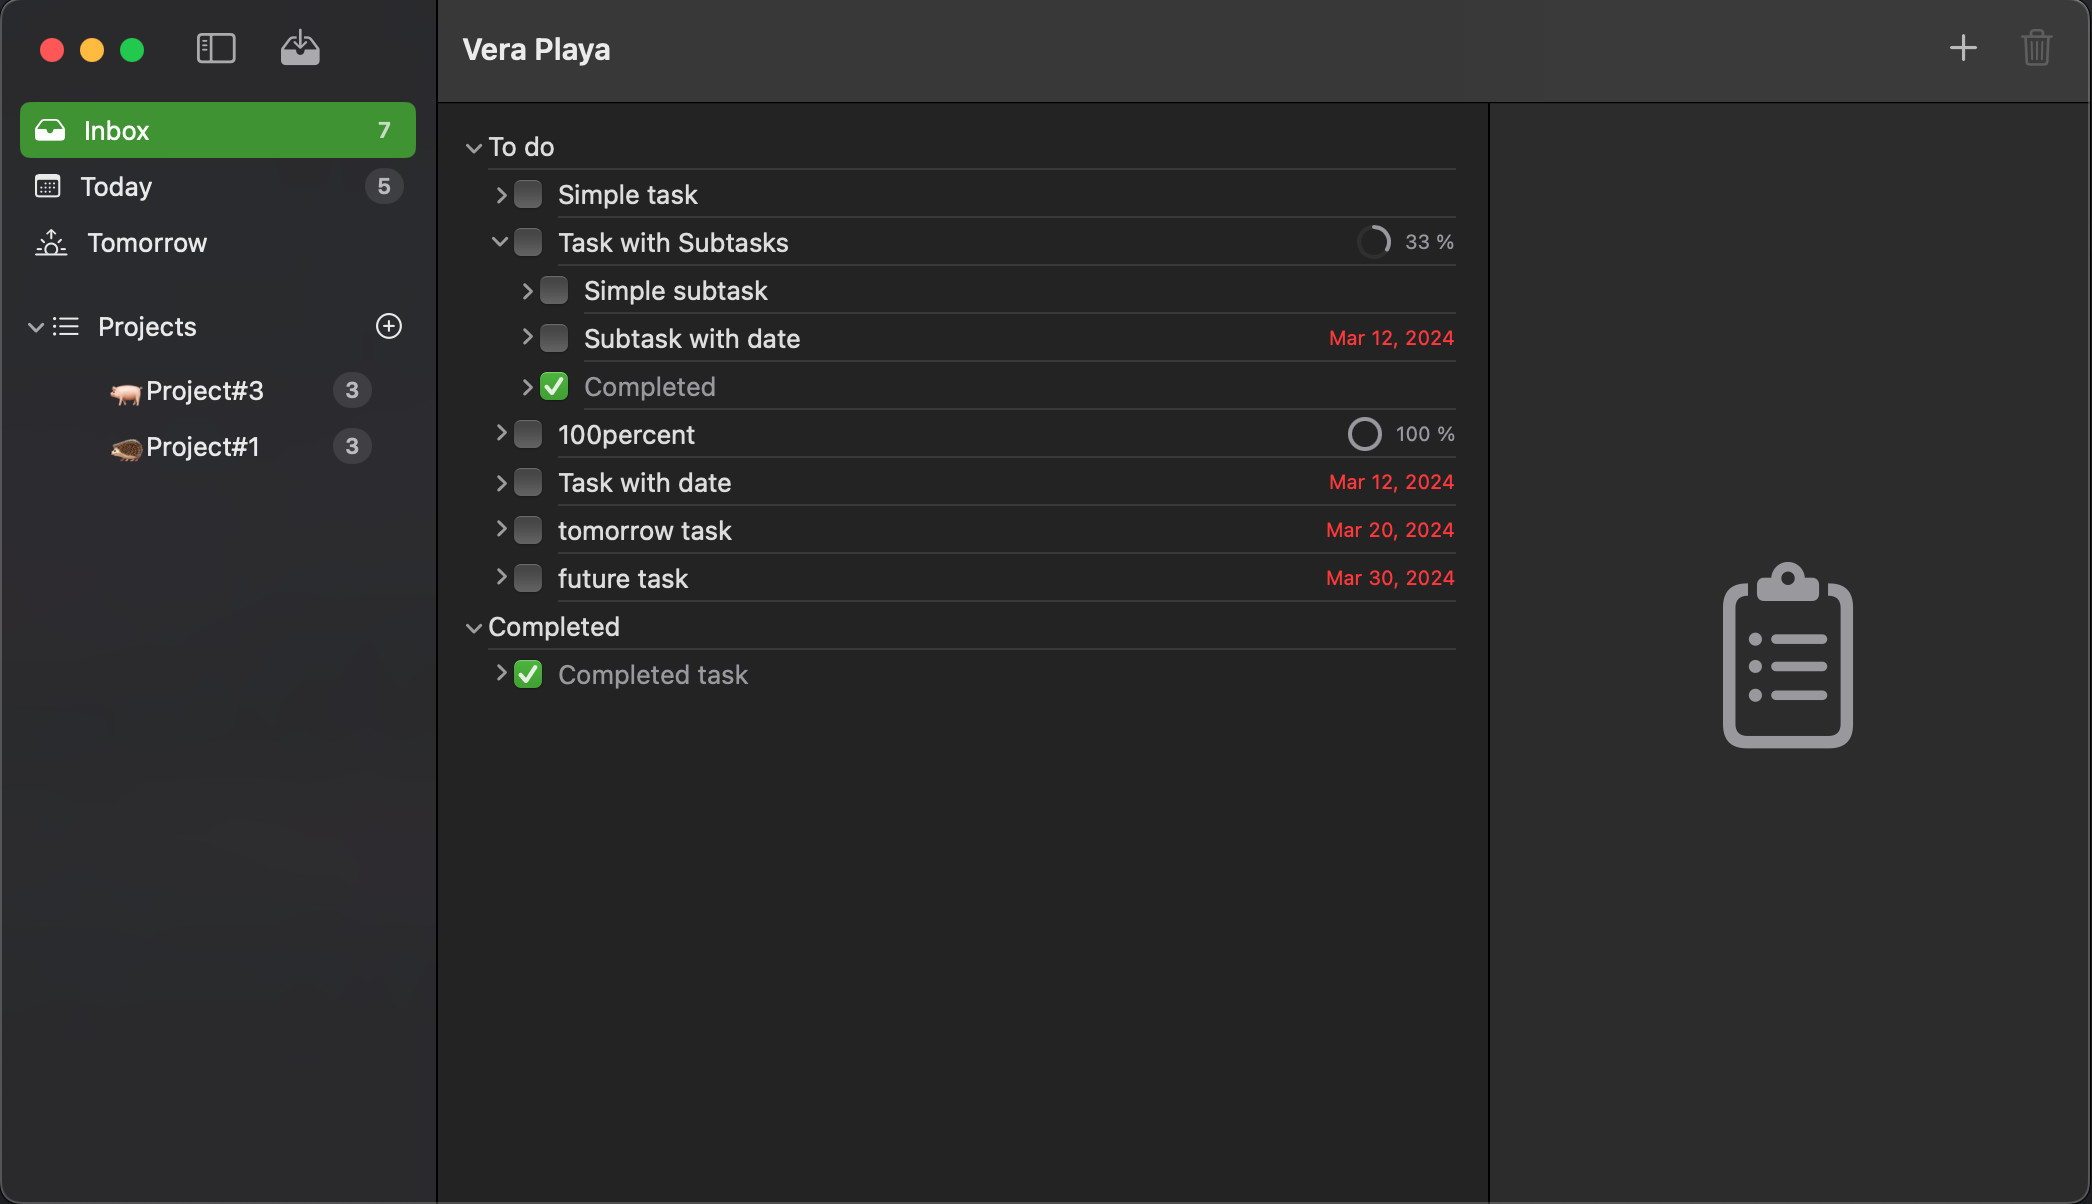
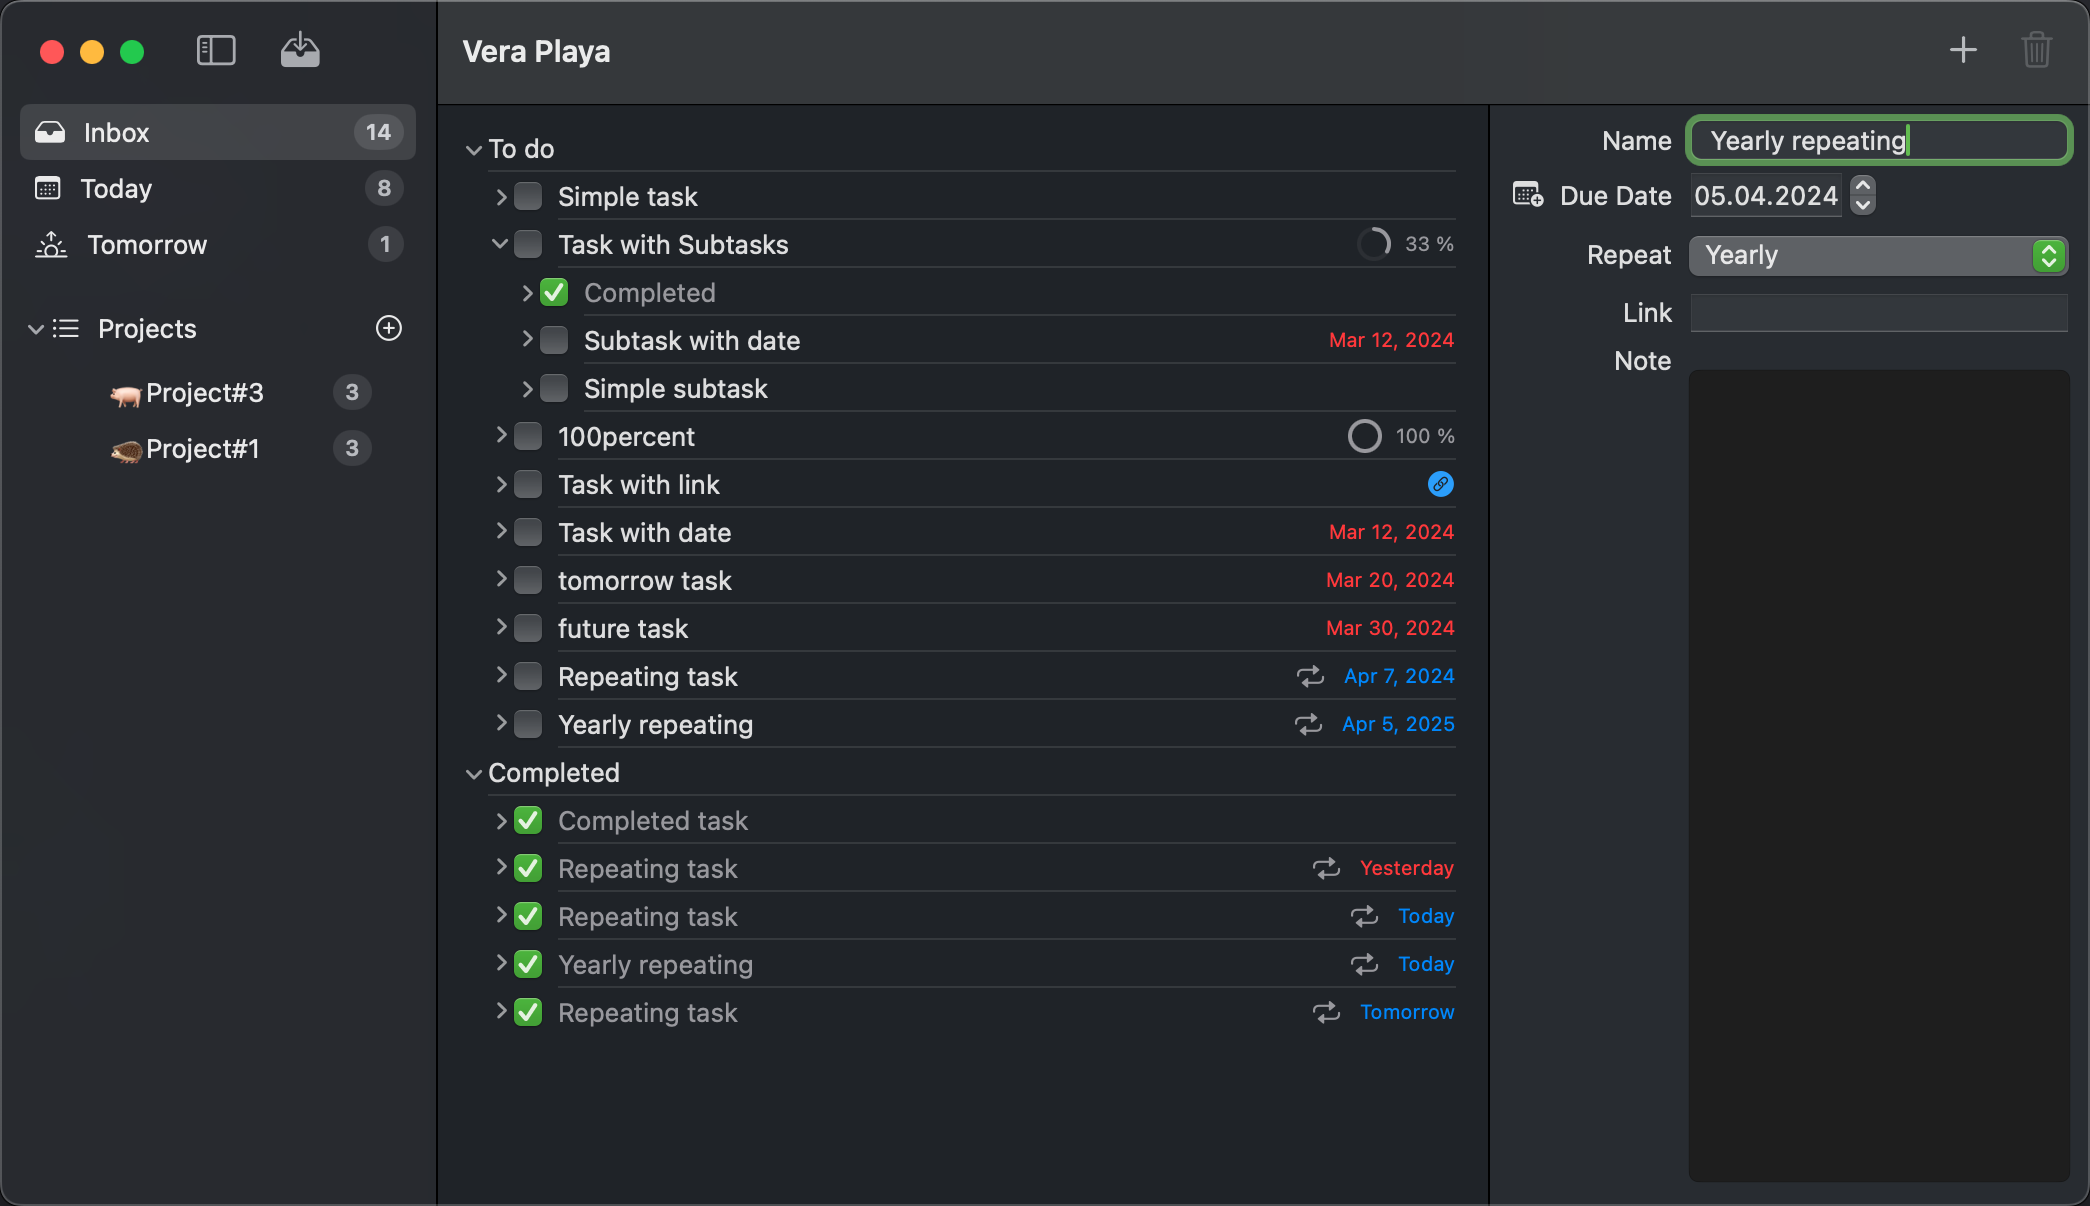
Yearly repeation

diff --git a/VeraPlayaMac/VeraPlayaMac/Model/Todo.swift b/VeraPlayaMac/VeraPlayaMac/Model/Todo.swift
@@ -14,6 +14,7 @@ enum RepeationMode: String, Identifiable, CaseIterable, Codable {
     case none = "None"
     case daily = "Daily"
     case monthly = "Monthly"
+    case yearly = "Yearly"
 }
 
 @Model
@@ -96,6 +97,8 @@ extension Todo {
             newTask.dueDate = Calendar.current.date(byAdding: .day, value: 1, to: Calendar.current.startOfDay(for: dueDate))
         case .monthly:
             newTask.dueDate = Calendar.current.date(byAdding: .month, value: 1, to: Calendar.current.startOfDay(for: dueDate))
+        case .yearly:
+            newTask.dueDate = Calendar.current.date(byAdding: .year, value: 1, to: Calendar.current.startOfDay(for: dueDate))
         }
         newTask.reconnect()
         
